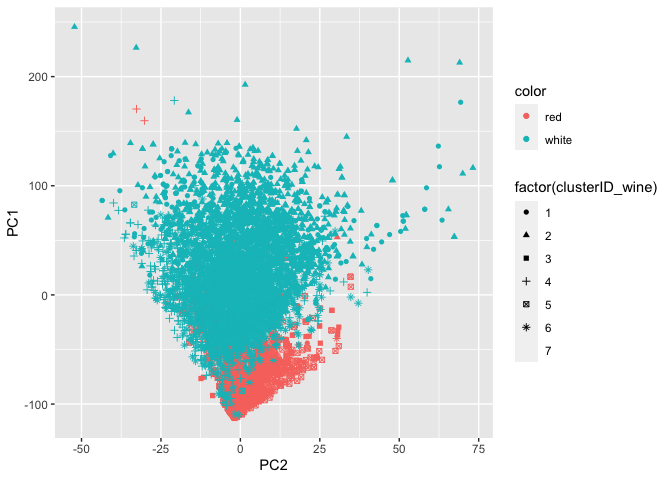
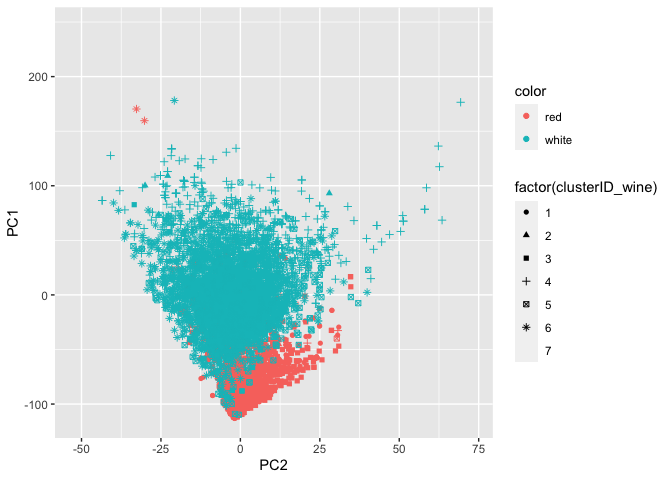
md knit

diff --git a/assignment_4.md b/assignment_4.md
@@ -16,44 +16,43 @@ found that the data points separated the most with total.sulfur.dioxide
 and free.sulfur.dioxide parameters. These properties will later be shown
 to be the most crucial aspects in the principal component definitions.
 
-![](assignment_4_files/figure-markdown_strict/unnamed-chunk-3-1.png) The
-PCA for this data was able to explain the vast majority of the
-information with a single dimension. I elected to choose 2 for since
-there are two distinct types of wine in the data set and for
-visualization purposes.
+![](assignment_4_files/figure-markdown_strict/unnamed-chunk-3-1.png)
 
-    ## Warning: The shape palette can deal with a maximum of 6 discrete values because
-    ## more than 6 becomes difficult to discriminate; you have 7. Consider
-    ## specifying shapes manually if you must have them.
-
-    ## Warning: Removed 33 rows containing missing values (geom_point).
+The PCA for this data was able to explain the vast majority of the
+information with a single dimension. I elected to choose 2 since there
+are two distinct types of wine in the data set and for visualization
+purposes.
 
 ![](assignment_4_files/figure-markdown_strict/unnamed-chunk-4-1.png)
+
 When graphing the principal components on one another, there is a clear
 separation in the two colors of wine. Specifically, reds appear to have
-low magnitudes of PC1 and PC2 and whites appear to have high magnitudes
-of PC1 and PC2.
+low magnitudes of PC1 and PC2 and whites appear to have higher
+magnitudes of PC1 and PC2.
 
     ## Warning: The shape palette can deal with a maximum of 6 discrete values because
     ## more than 6 becomes difficult to discriminate; you have 7. Consider
     ## specifying shapes manually if you must have them.
 
-    ## Warning: Removed 33 rows containing missing values (geom_point).
+    ## Warning: Removed 1469 rows containing missing values (geom_point).
 
-![](assignment_4_files/figure-markdown_strict/unnamed-chunk-5-1.png) The
-quality ratings were more difficult to visualize as they relate to the
-clusters due to the number of values in the features. What is noticeable
-is that quality does not appear to be associated with either of the
-principal components, but is rather spread out through the data in the
-5-6 range. We will return to this fact at the final table.
+![](assignment_4_files/figure-markdown_strict/unnamed-chunk-5-1.png)
 
-![](assignment_4_files/figure-markdown_strict/unnamed-chunk-6-1.png) As
-state prior, the dominant force in the principal components was the
+The quality ratings were more difficult to visualize as they relate to
+the clusters due to the number of values in the features. What is
+noticeable is that quality does not appear to be associated with either
+of the principal components, but is rather spread out through the data
+in the 5-6 range. We will return to this fact at the final table.
+
+![](assignment_4_files/figure-markdown_strict/unnamed-chunk-6-1.png)
+
+As state prior, the dominant force in the principal components was the
 sulfur content. In PC1 total.sulfur.dioxide stood out as the classifying
 feature from free.sulfur dioxide by several orders of magnitude.
 
-![](assignment_4_files/figure-markdown_strict/unnamed-chunk-7-1.png) PC2
-is defined by free.sulfur.dioxide as well as a lack of
+![](assignment_4_files/figure-markdown_strict/unnamed-chunk-7-1.png)
+
+PC2 is defined by free.sulfur.dioxide as well as a lack of
 total.sulfur.dioxide, the main feature of PC1.
 
 <table>
@@ -72,45 +71,13 @@ total.sulfur.dioxide, the main feature of PC1.
 <tr class="odd">
 <td style="text-align: right;">1</td>
 <td style="text-align: left;">red</td>
-<td style="text-align: right;">20</td>
-<td style="text-align: right;">-17.753428</td>
-<td style="text-align: right;">3.5167563</td>
-<td style="text-align: right;">5.200000</td>
+<td style="text-align: right;">623</td>
+<td style="text-align: right;">-75.835023</td>
+<td style="text-align: right;">1.2348555</td>
+<td style="text-align: right;">5.906902</td>
 </tr>
 <tr class="even">
 <td style="text-align: right;">1</td>
-<td style="text-align: left;">white</td>
-<td style="text-align: right;">980</td>
-<td style="text-align: right;">33.226994</td>
-<td style="text-align: right;">0.1943185</td>
-<td style="text-align: right;">5.937755</td>
-</tr>
-<tr class="odd">
-<td style="text-align: right;">2</td>
-<td style="text-align: left;">red</td>
-<td style="text-align: right;">2</td>
-<td style="text-align: right;">14.245392</td>
-<td style="text-align: right;">14.4058073</td>
-<td style="text-align: right;">6.000000</td>
-</tr>
-<tr class="even">
-<td style="text-align: right;">2</td>
-<td style="text-align: left;">white</td>
-<td style="text-align: right;">1468</td>
-<td style="text-align: right;">59.104686</td>
-<td style="text-align: right;">3.4238866</td>
-<td style="text-align: right;">5.621935</td>
-</tr>
-<tr class="odd">
-<td style="text-align: right;">3</td>
-<td style="text-align: left;">red</td>
-<td style="text-align: right;">624</td>
-<td style="text-align: right;">-75.765873</td>
-<td style="text-align: right;">1.2820173</td>
-<td style="text-align: right;">5.908654</td>
-</tr>
-<tr class="even">
-<td style="text-align: right;">3</td>
 <td style="text-align: left;">white</td>
 <td style="text-align: right;">15</td>
 <td style="text-align: right;">12.442049</td>
@@ -118,55 +85,7 @@ total.sulfur.dioxide, the main feature of PC1.
 <td style="text-align: right;">4.933333</td>
 </tr>
 <tr class="odd">
-<td style="text-align: right;">4</td>
-<td style="text-align: left;">red</td>
-<td style="text-align: right;">9</td>
-<td style="text-align: right;">35.802692</td>
-<td style="text-align: right;">-14.3143548</td>
-<td style="text-align: right;">5.888889</td>
-</tr>
-<tr class="even">
-<td style="text-align: right;">4</td>
-<td style="text-align: left;">white</td>
-<td style="text-align: right;">1215</td>
-<td style="text-align: right;">2.861806</td>
-<td style="text-align: right;">-5.7205112</td>
-<td style="text-align: right;">5.677366</td>
-</tr>
-<tr class="odd">
-<td style="text-align: right;">5</td>
-<td style="text-align: left;">red</td>
-<td style="text-align: right;">885</td>
-<td style="text-align: right;">-70.367496</td>
-<td style="text-align: right;">1.7985294</td>
-<td style="text-align: right;">5.428249</td>
-</tr>
-<tr class="even">
-<td style="text-align: right;">5</td>
-<td style="text-align: left;">white</td>
-<td style="text-align: right;">51</td>
-<td style="text-align: right;">-19.580171</td>
-<td style="text-align: right;">-8.5305425</td>
-<td style="text-align: right;">4.725490</td>
-</tr>
-<tr class="odd">
-<td style="text-align: right;">6</td>
-<td style="text-align: left;">red</td>
-<td style="text-align: right;">32</td>
-<td style="text-align: right;">-58.731518</td>
-<td style="text-align: right;">3.1655819</td>
-<td style="text-align: right;">6.500000</td>
-</tr>
-<tr class="even">
-<td style="text-align: right;">6</td>
-<td style="text-align: left;">white</td>
-<td style="text-align: right;">1162</td>
-<td style="text-align: right;">-7.923514</td>
-<td style="text-align: right;">-0.0300585</td>
-<td style="text-align: right;">6.432014</td>
-</tr>
-<tr class="odd">
-<td style="text-align: right;">7</td>
+<td style="text-align: right;">2</td>
 <td style="text-align: left;">red</td>
 <td style="text-align: right;">27</td>
 <td style="text-align: right;">-65.647080</td>
@@ -174,12 +93,92 @@ total.sulfur.dioxide, the main feature of PC1.
 <td style="text-align: right;">5.333333</td>
 </tr>
 <tr class="even">
-<td style="text-align: right;">7</td>
+<td style="text-align: right;">2</td>
 <td style="text-align: left;">white</td>
 <td style="text-align: right;">6</td>
 <td style="text-align: right;">70.537750</td>
 <td style="text-align: right;">-11.8262665</td>
 <td style="text-align: right;">4.666667</td>
+</tr>
+<tr class="odd">
+<td style="text-align: right;">3</td>
+<td style="text-align: left;">red</td>
+<td style="text-align: right;">885</td>
+<td style="text-align: right;">-70.367496</td>
+<td style="text-align: right;">1.7985294</td>
+<td style="text-align: right;">5.428249</td>
+</tr>
+<tr class="even">
+<td style="text-align: right;">3</td>
+<td style="text-align: left;">white</td>
+<td style="text-align: right;">51</td>
+<td style="text-align: right;">-19.580171</td>
+<td style="text-align: right;">-8.5305425</td>
+<td style="text-align: right;">4.725490</td>
+</tr>
+<tr class="odd">
+<td style="text-align: right;">4</td>
+<td style="text-align: left;">red</td>
+<td style="text-align: right;">21</td>
+<td style="text-align: right;">-18.464481</td>
+<td style="text-align: right;">4.8094759</td>
+<td style="text-align: right;">5.285714</td>
+</tr>
+<tr class="even">
+<td style="text-align: right;">4</td>
+<td style="text-align: left;">white</td>
+<td style="text-align: right;">969</td>
+<td style="text-align: right;">33.271638</td>
+<td style="text-align: right;">0.1272341</td>
+<td style="text-align: right;">5.937049</td>
+</tr>
+<tr class="odd">
+<td style="text-align: right;">5</td>
+<td style="text-align: left;">red</td>
+<td style="text-align: right;">32</td>
+<td style="text-align: right;">-58.731518</td>
+<td style="text-align: right;">3.1655819</td>
+<td style="text-align: right;">6.500000</td>
+</tr>
+<tr class="even">
+<td style="text-align: right;">5</td>
+<td style="text-align: left;">white</td>
+<td style="text-align: right;">1169</td>
+<td style="text-align: right;">-7.765523</td>
+<td style="text-align: right;">-0.0292344</td>
+<td style="text-align: right;">6.431138</td>
+</tr>
+<tr class="odd">
+<td style="text-align: right;">6</td>
+<td style="text-align: left;">red</td>
+<td style="text-align: right;">9</td>
+<td style="text-align: right;">35.802692</td>
+<td style="text-align: right;">-14.3143548</td>
+<td style="text-align: right;">5.888889</td>
+</tr>
+<tr class="even">
+<td style="text-align: right;">6</td>
+<td style="text-align: left;">white</td>
+<td style="text-align: right;">1220</td>
+<td style="text-align: right;">3.059332</td>
+<td style="text-align: right;">-5.6388062</td>
+<td style="text-align: right;">5.677049</td>
+</tr>
+<tr class="odd">
+<td style="text-align: right;">7</td>
+<td style="text-align: left;">red</td>
+<td style="text-align: right;">2</td>
+<td style="text-align: right;">14.245392</td>
+<td style="text-align: right;">14.4058073</td>
+<td style="text-align: right;">6.000000</td>
+</tr>
+<tr class="even">
+<td style="text-align: right;">7</td>
+<td style="text-align: left;">white</td>
+<td style="text-align: right;">1467</td>
+<td style="text-align: right;">59.102522</td>
+<td style="text-align: right;">3.4230247</td>
+<td style="text-align: right;">5.621677</td>
 </tr>
 </tbody>
 </table>
@@ -269,15 +268,16 @@ these 4.
 After pre-processing the groceries data, I feed the list of items and
 carts to the `apriori` function in `arules`. After a bit of trial and
 error, I decided to use the following parameters: `support = 0.0012`,
-`confidence = 0.8`, and `maxlen = 10`. I decided to decrease the support
-threshold because a high support requirement was not returning
-interesting associations. I increase the confidence threshold in order
-to filter out weaker associations, and my max length is set at 10
-because I did not want length to be a binding constraint. I wanted to
-see all rules that meet my support and confidence threshold, regardless
-of length.
+`confidence = 0.8`, and `maxlen = 10`. I use a low support threshold
+because a high support requirement was not returning interesting
+associations. I increase the confidence threshold in order to filter out
+weaker associations, and my max length is set at 10 because I did not
+want length to be a binding constraint. I wanted to see all rules that
+meet my support and confidence threshold, regardless of length. The
+following plots summarize the relationship between support, lift and
+confidence of our rules.
 
-![](assignment_4_files/figure-markdown_strict/arules_figures-1.png)![](assignment_4_files/figure-markdown_strict/arules_figures-2.png)![](assignment_4_files/figure-markdown_strict/arules_figures-3.png)
+![](assignment_4_files/figure-markdown_strict/arules_figures-1.png)![](assignment_4_files/figure-markdown_strict/arules_figures-2.png)
 
 The following table lists the 10 rules with highest lift values. Recall
 that lift is a measure of how much the probability of observing the LHS
@@ -556,15 +556,15 @@ tag](output/tabs_figs/wholemilk_just.png)
 ![](output/tabs_figs/nomilk_beersodasausage.png)
 ![](output/tabs_figs/nomilk_candy.png)
 
-![The “no milk tag picks out more snack and alcohol items and less
-traditional grocery items”. Items associated with “whole milk” are
+![The “no milk” tag picks out more snack and alcohol items and less
+traditional grocery items. Items associated with “whole milk” are
 typical grocery bundles](output/tabs_figs/wholemilk_basiccart.png)
 
 The following tables clearly show the same trend that the above graphs
 illustrate: items associated with the “no milk” tag tend to be snacks,
 alcohol, and other items that a non-grocery shopper might run into the
-store and buy while the “whole milk” is associated with basic, everyday
-grocery staples.
+store and buy. By contrast, “whole milk” is associated with basic,
+everyday grocery staples.
 
 <table>
 <caption>High Lift Rules: No-Milk Carts</caption>
